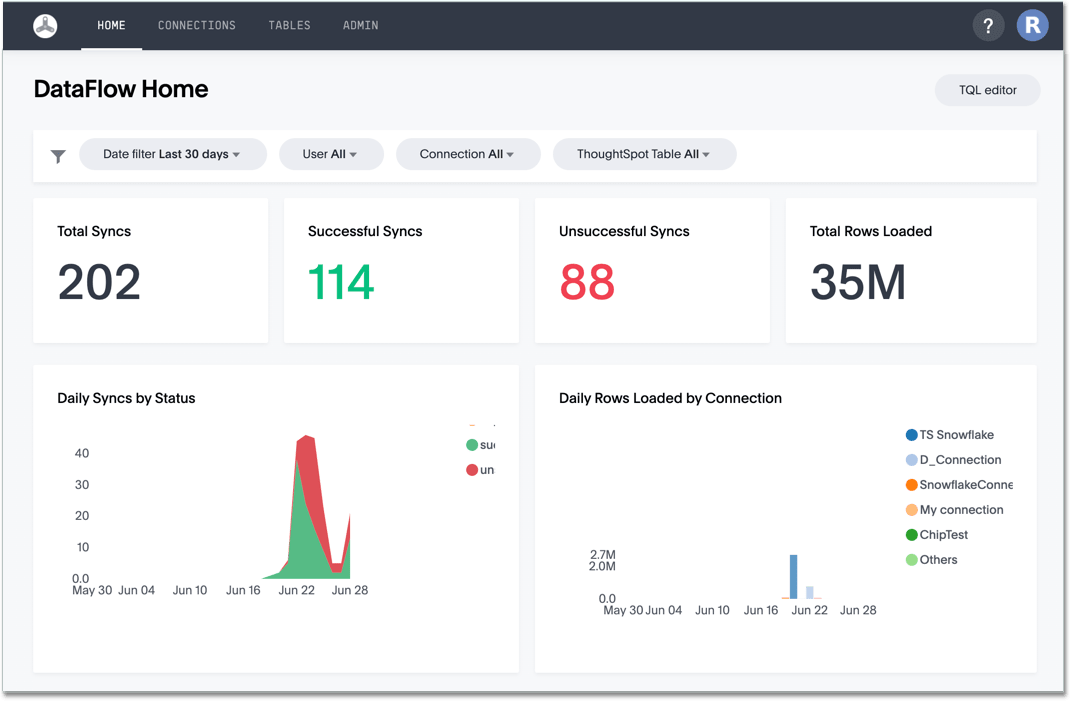
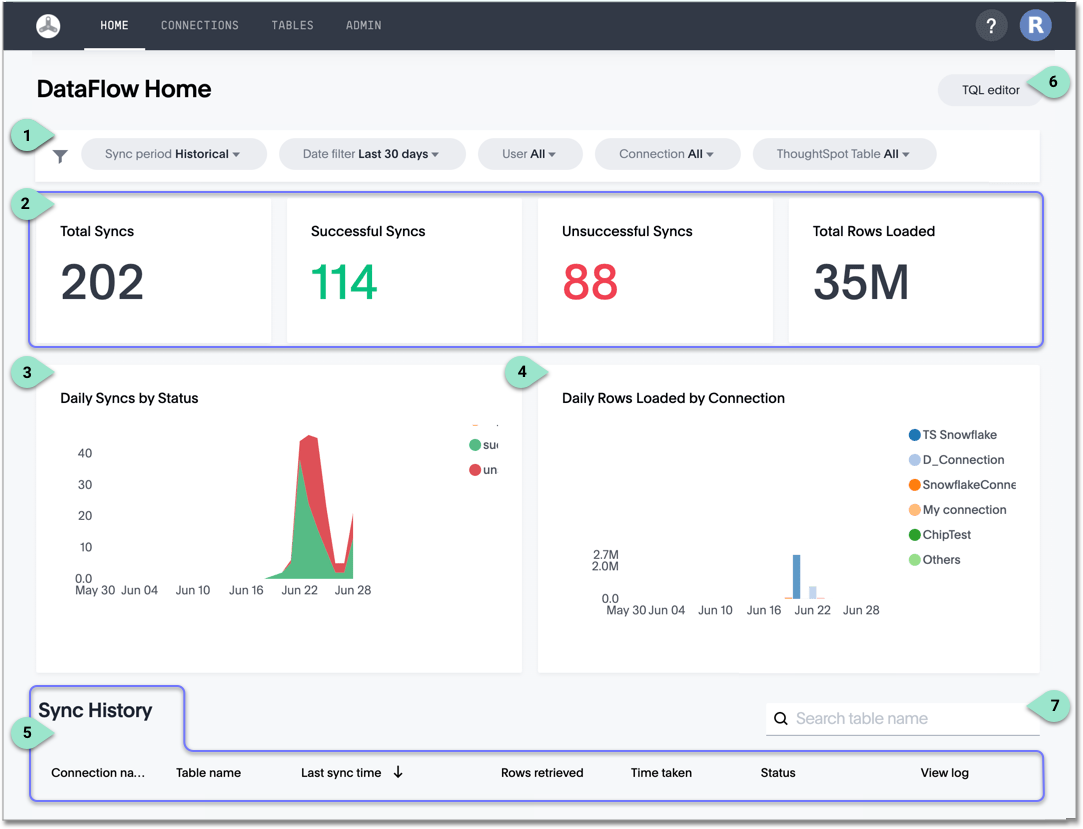
SCAL-81259 various updates to the DataFlow Home page

diff --git a/_data-integrate/dataflow/dataflow-home.md b/_data-integrate/dataflow/dataflow-home.md
@@ -2,7 +2,7 @@
 title: [DataFlow home]
 last_updated: 06/29/2020
 toc: true
-summary: "The DataFlow Home interface reports all historical syncing information."
+summary: "The DataFlow Home interface reports all historical and upcoming syncing information."
 sidebar: mydoc_sidebar
 permalink: /:collection/:path.html
 ---
@@ -10,3 +10,40 @@ permalink: /:collection/:path.html
 With a single glance, the Home interface for Dataflow reports the sync performance across your entire organization.
 
 ![Historical sync reports]({{ site.baseurl }}/images/dataflow-home.png "Historical sync reports")
+
+1. The filters include the following:
+
+   - **Sync period**:
+      - _**Historical**_ (default) display includes the sync count, graphs, and charts.
+
+      - _**Upcoming**_  display shows the list of connections that include the following columns: _Connection name_, _Table name_, _Next scheduled run_, _Repeat_, and _Last run time_ details. The date filter and the graphs details are not visible.
+
+   - Date filter: _Last 24 hours_, _Last 7 days_, _Last 30 days_(default), or _All time_
+   - User: _All_ or individual users
+   - Connection: _All_ or individual connections
+   - ThoughtSpot Table: _All_ or individual
+
+2. **Key indicators**:
+
+   - Total Syncs
+   - Successful Syncs
+   - Unsuccessful Syncs
+   - Total Rows Loaded   
+
+3. **Daily Syncs by Status** is an Area chart that shows both Successful and Unsuccessful syncs over time.
+
+4. **Daily Rows Loaded by Connection** is a column chart that shows the number of rows loaded for each connection over time.
+
+5. **Sync History** reports the following information for all connections:
+
+   - Connection name
+   - Table name
+   - Last sync time
+   - Rows retrieved
+   - Time taken
+   - Status
+   - View log
+
+6. **TQL editor** enables users to enter DDL commands to run on the internal database, such us `CREATE DATABSE ...` and similar.
+
+7. **Search** enables users to find information on specific tables, by name.    

diff --git a/_release/notes.md b/_release/notes.md
@@ -73,6 +73,9 @@ We added support for connecting to the following databases: <a href="{{ site.bas
 
 <p>Connections for remote files support several new <a href="{{ site.baseurl }}/data-integrate/dataflow/dataflow-files-sync.html#file-format">file formats</a>; in addition to  <em>Delimited</em>, we have support for <em>Parquet</em>, <em>JSON</em> <span class="label label-beta">New</span>, <em>LDJSON</em> <span class="label label-beta">New</span>, and <em>ORC</em> <span class="label label-beta">New</span>.
 </p>
+
+<p>The DataFlow Home dashboard now shows both the historical and upcoming syncing information. It also supports search by table name. See <a href="{{ site.baseurl }}/data-integrate/dataflow/dataflow-home.html">DataFlow home</a>.</p>
+
 </dd>
 
 </dlentry>
